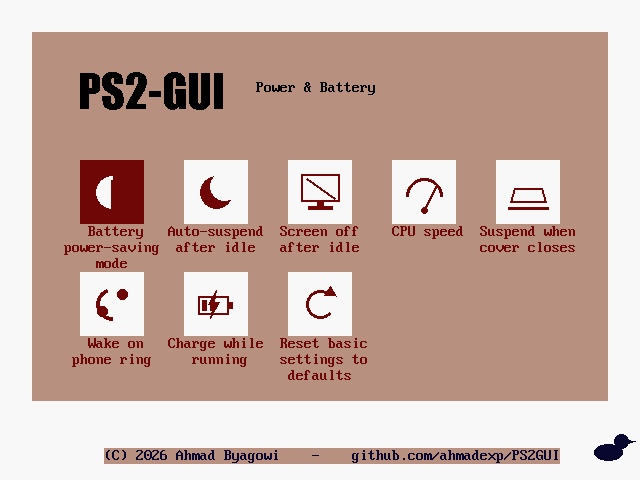
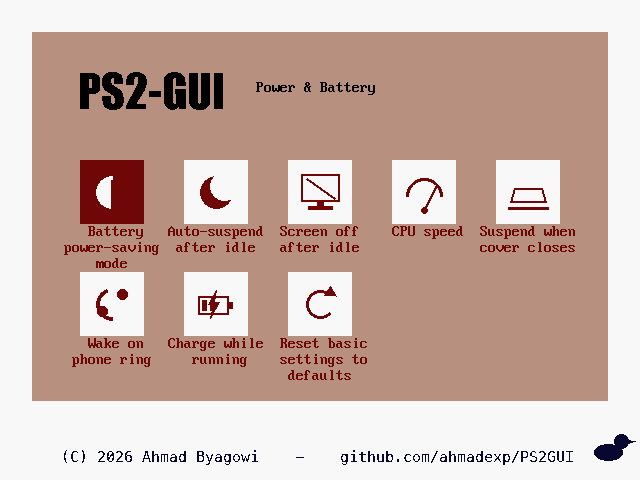
PS2GUI: credit line on clean white background (bitmap render)

Changed region(s): [[0.1562, 0.9062, 0.9062, 0.9688], [0.0938, 0.9375, 0.125, 0.9688]]

diff --git a/Software/PS2GUI/tools/make_tiles.py b/Software/PS2GUI/tools/make_tiles.py
@@ -381,6 +381,26 @@ dd = ImageDraw.Draw(duck)
 dd.ellipse([6, 14, 34, 30], fill=0); dd.ellipse([26, 4, 40, 18], fill=0)
 dd.polygon([(38, 9), (47, 11), (38, 14)], fill=0)
 
+# credit line as a bitmap (it sits on the WHITE margin; BIOS teletype would paint
+# an index-0 mauve cell background there, so we draw it glyph-only like the title)
+def load_mono(sz):
+    for p in ["/System/Library/Fonts/Menlo.ttc",
+              "/System/Library/Fonts/Supplemental/Courier New.ttf",
+              "/System/Library/Fonts/Monaco.ttf"]:
+        try:
+            return ImageFont.truetype(p, sz)
+        except Exception:
+            pass
+    return ImageFont.load_default()
+
+cf = load_mono(15)
+ctext = "(C) 2026 Ahmad Byagowi    -    github.com/ahmadexp/PS2GUI"
+tmp2 = Image.new("L", (760, 30), 255); ImageDraw.Draw(tmp2).text((2, 3), ctext, font=cf, fill=0)
+bb2 = tmp2.point(lambda v: 255 if v < 128 else 0).getbbox()
+copy = tmp2.crop(bb2)
+cw = ((copy.width + 15) // 16) * 16
+c2 = Image.new("L", (cw, copy.height), 255); c2.paste(copy, (0, 0)); copy = c2
+
 # ---------- emit ----------
 def words_of(im):
     w, h = im.size; ww = (w + 15) // 16; px = im.load(); out = []
@@ -415,6 +435,8 @@ tw_ww, tw_h = emit("tile_title", title)
 lines += ["TITLE_WW equ %d" % tw_ww, "TITLE_H  equ %d" % tw_h, ""]
 dk_ww, dk_h = emit("tile_duck", duck)
 lines += ["DUCK_WW equ %d" % dk_ww, "DUCK_H  equ %d" % dk_h, ""]
+cp_ww, cp_h = emit("tile_copy", copy)
+lines += ["COPY_WW equ %d" % cp_ww, "COPY_H  equ %d" % cp_h, ""]
 lines.append("; category -> icon (main-menu order)")
 lines.append("cat_tile: dw " + ", ".join("tile_" + n for n in cat_names))
 lines.append("")
